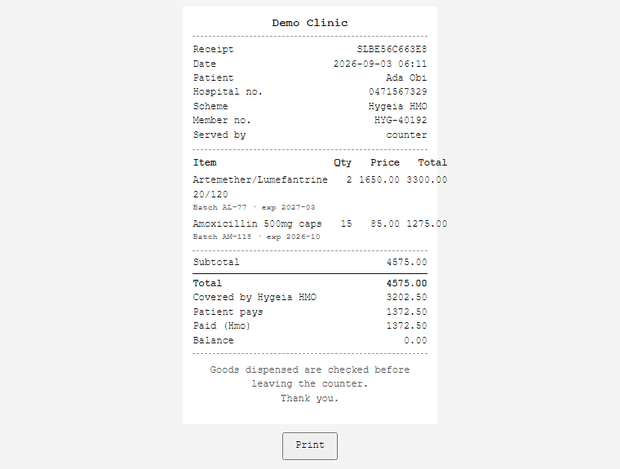
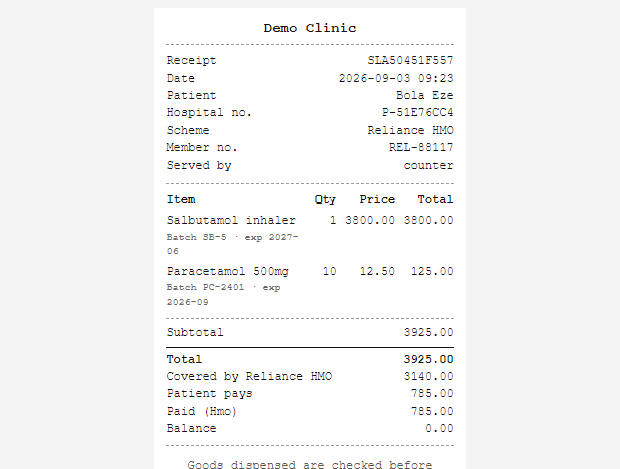
Reshoot the web pharmacy screens on the reseeded data
The dispensing shot showed the old path — an empty scheme dropdown and a blank
patient box — which is no longer what the counter does. It now shows the sale
it was meant to illustrate: the pharmacist typed the patient's name, and the
one scheme they hold filled itself in.

The other four were captured before the seed grew a fifth sale, so the figures
disagreed with each other. All five come from one `seed_pharmacy --reset`, so
the counter's takings, the receipt and the claim now tell the same story: the
receipt is the auto-submitting insurer's sale, and the counter's Insurers table
carries its claim.

Claude-Session: https://claude.ai/code/session_011mp2qkUkPaN7qkiVjCg7KZ

Changed region(s): [[0.2452, 0.0896, 0.7355, 0.9254], [0.429, 0.0299, 0.7355, 0.5075], [0.3065, 0.8955, 0.7048, 1.0]]

diff --git a/README.md b/README.md
@@ -227,7 +227,11 @@ expiring, the day's takings, what insurers owe) and `#/pharmacy/sell`
 
 | Counter | Dispensing | Receipt |
 | :---: | :---: | :---: |
-| ![Web counter: the day's takings and what is owed, over the reorder and expiry lists](docs/screenshots/web-pharmacy-counter.png) | ![Dispensing: an item picker showing stock on hand, with a line added to the sale](docs/screenshots/web-pharmacy-dispense.png) | ![Receipt: batch and expiry per line, then the HMO and patient split](docs/screenshots/web-pharmacy-receipt.png) |
+| ![Web counter: the day's takings and what is owed, over the reorder and expiry lists](docs/screenshots/web-pharmacy-counter.png) | ![Dispensing an insured sale: the pharmacist typed the patient's name and the scheme membership filled itself in](docs/screenshots/web-pharmacy-dispense.png) | ![Receipt: batch and expiry per line, then the HMO and patient split](docs/screenshots/web-pharmacy-receipt.png) |
+
+The dispensing shot is the card-less path: the counter named the patient, and
+the one scheme they hold was picked for them — the server would have resolved
+it either way, and asks which only when a patient is on two.
 
 The receipt above is the printable endpoint, not a picture of one: batch and
 expiry sit under each line, and an insured sale shows what the scheme covered
